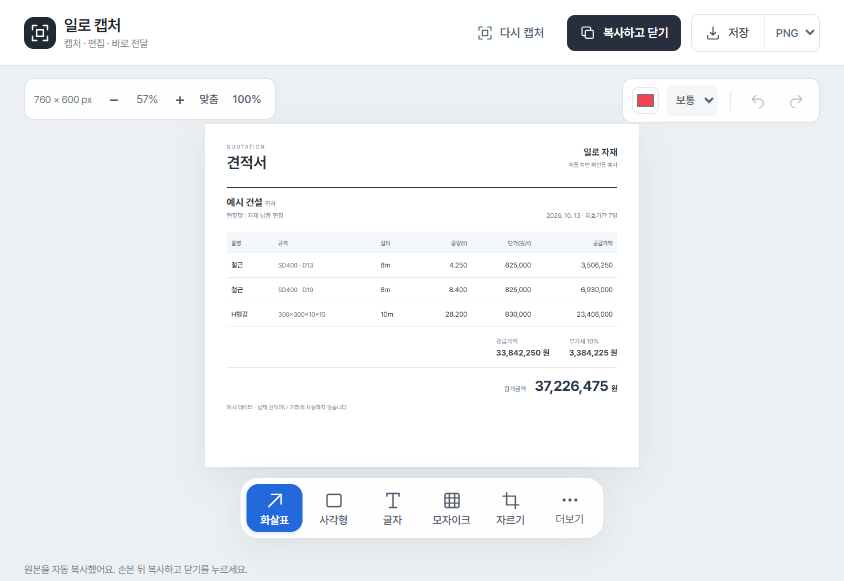
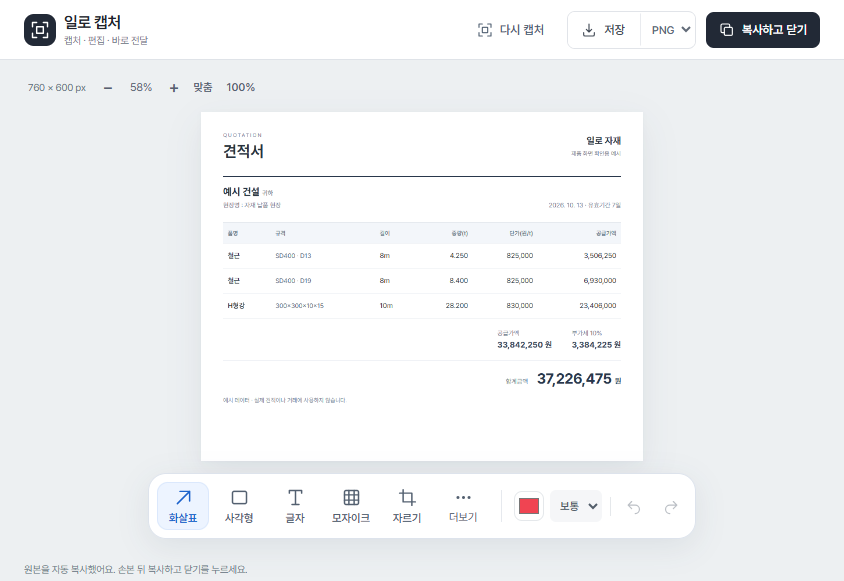
Publish ILLO 0.23.29 download page

diff --git a/index.html b/index.html
@@ -1,1 +1,1 @@
-<!doctype html><html lang="ko"><head><meta charset="utf-8"><meta name="viewport" content="width=device-width,initial-scale=1"><meta name="description" content="일로에서 견적을 만들고, 캡처하고, 전달하세요. Windows용 일로 다운로드."><meta name="theme-color" content="#ffffff"><title>일로 — 업무를 한곳에서</title><link rel="icon" href="illo.png"><link rel="stylesheet" href="site.css"></head><body><header><a class="brand" href="./"><img src="illo.png" alt="">일로</a><a href="#start">설치 안내</a></header><main><section class="hero"><p class="eyebrow">견적부터 전달까지</p><h1>일을 더 가볍게.<br>일로.</h1><p class="intro">자료를 견적으로, 화면을 메시지로.<br>자주 하는 일을 한곳에서 이어가세요.</p><a class="download" href="https://github.com/ldy0929-hash/illo-downloads/releases/latest/download/ILLO-Setup.exe">Windows용 일로 설치 <span aria-hidden="true">↓</span></a><p class="caption">Windows 10 · 11 / 64비트 · <span data-version>v0.23.28</span></p></section><section class="feature"><div><p class="eyebrow">일로 견적</p><h2>사진·엑셀을 읽고,<br>견적 초안을 만들어요.</h2><p>규격과 수량을 확인하고 단가를 넣으면<br>견적서·거래명세서·발주서로 이어져요.</p><p class="note">AI 초안은 원문과 대조한 뒤 적용하세요.</p></div><div class="quote-card" aria-label="견적 예시"><div class="quote-title">견적서 <span>예시 자재</span></div><p>수신 &nbsp; 예시 건설 귀하</p><p>현장명 : 신축 현장</p><div class="quote-line"><strong>철근 SD400 D13</strong><span>8 m</span><span>100본</span></div><div class="quote-line"><strong>H형강 300×300</strong><span>10 m</span><span>30본</span></div><div class="quote-actions"><span>전체 이미지 복사</span><span>PDF 저장</span></div></div></section><section class="feature capture"><div class="capture-image"><img src="capture.png" alt="일로 간단 캡처 편집 화면. 캡처 이미지와 아래 화살표·사각형·글자·모자이크 도구."></div><div><p class="eyebrow">일로 캡처</p><h2>누르고, 손보고,<br>붙여넣으세요.</h2><p>작업표시줄에서 바로 캡처.<br>화살표·글자·모자이크로 정리해서<br>메신저에 붙여넣으세요.</p></div></section><section id="start" class="start"><h2>시작은 간단하게.</h2><ol><li><span>1</span><div><strong>일로를 설치하세요.</strong><p>설치파일 하나를 실행하면 됩니다.</p></div></li><li><span>2</span><div><strong>AI 기능을 준비하세요.</strong><p>첫 실행에서 필요한 환경을 자동으로 준비해요.<br>인터넷 연결과 몇 분의 준비 시간이 필요합니다.</p></div></li><li><span>3</span><div><strong>ChatGPT 계정으로 연결하세요.</strong><p>AI를 쓰려면 지원되는 ChatGPT 계정과 구독 사용 동의가 필요해요.<br>사용량은 연결한 계정의 한도에 포함됩니다.</p></div></li></ol><p class="update-note">새 버전은 앱에서 자동 확인해요. 안내가 뜨면 저장 후 업데이트하세요.<br>휴대폰 연결은 PC 일로가 실행 중이고 같은 Wi-Fi 또는 Tailscale로 연결되어 있어야 해요.</p><details><summary>설치 전 참고</summary><p>현재 설치파일은 Windows 게시자 인증서로 서명되지 않았습니다. 배포자와 다운로드 주소를 확인하고 회사 PC에서는 담당자에게 설치 정책을 확인하세요. 앱의 업데이트는 배포자 서명과 파일 검증 후 설치합니다.</p><p>견적·설정·AI 대화는 PC에 보관됩니다. AI를 요청하면 선택한 자료와 필요한 업무 내용을 ChatGPT로 전송합니다. 이 다운로드에는 제작자의 업무 자료나 로그인 정보가 들어 있지 않습니다.</p></details></section></main><footer><a class="brand" href="./"><img src="illo.png" alt="">일로</a><a href="https://github.com/ldy0929-hash/illo-downloads/releases">버전 기록</a></footer></body></html>
+<!doctype html><html lang="ko"><head><meta charset="utf-8"><meta name="viewport" content="width=device-width,initial-scale=1"><meta name="description" content="일로에서 견적을 만들고, 캡처하고, 전달하세요. Windows용 일로 다운로드."><meta name="theme-color" content="#ffffff"><title>일로 — 업무를 한곳에서</title><link rel="icon" href="illo.png"><link rel="stylesheet" href="site.css"></head><body><header><a class="brand" href="./"><img src="illo.png" alt="">일로</a><a href="#start">설치 안내</a></header><main><section class="hero"><p class="eyebrow">견적부터 전달까지</p><h1>일을 더 가볍게.<br>일로.</h1><p class="intro">자료를 견적으로, 화면을 메시지로.<br>자주 하는 일을 한곳에서 이어가세요.</p><a class="download" href="https://github.com/ldy0929-hash/illo-downloads/releases/latest/download/ILLO-Setup.exe">Windows용 일로 설치 <span aria-hidden="true">↓</span></a><p class="caption">Windows 10 · 11 / 64비트 · <span data-version>v0.23.29</span></p></section><section class="feature"><div><p class="eyebrow">일로 견적</p><h2>사진·엑셀을 읽고,<br>견적 초안을 만들어요.</h2><p>규격과 수량을 확인하고 단가를 넣으면<br>견적서·거래명세서·발주서로 이어져요.</p><p class="note">AI 초안은 원문과 대조한 뒤 적용하세요.</p></div><div class="quote-card" aria-label="견적 예시"><div class="quote-title">견적서 <span>예시 자재</span></div><p>수신 &nbsp; 예시 건설 귀하</p><p>현장명 : 신축 현장</p><div class="quote-line"><strong>철근 SD400 D13</strong><span>8 m</span><span>100본</span></div><div class="quote-line"><strong>H형강 300×300</strong><span>10 m</span><span>30본</span></div><div class="quote-actions"><span>전체 이미지 복사</span><span>PDF 저장</span></div></div></section><section class="feature capture"><div class="capture-image"><img src="capture.png" alt="일로 간단 캡처 편집 화면. 캡처 이미지와 아래 화살표·사각형·글자·모자이크 도구."></div><div><p class="eyebrow">일로 캡처</p><h2>누르고, 손보고,<br>붙여넣으세요.</h2><p>작업표시줄에서 바로 캡처.<br>화살표·글자·모자이크로 정리해서<br>메신저에 붙여넣으세요.</p></div></section><section id="start" class="start"><h2>시작은 간단하게.</h2><ol><li><span>1</span><div><strong>일로를 설치하세요.</strong><p>설치파일 하나를 실행하면 됩니다.</p></div></li><li><span>2</span><div><strong>AI 기능을 준비하세요.</strong><p>첫 실행에서 필요한 환경을 자동으로 준비해요.<br>인터넷 연결과 몇 분의 준비 시간이 필요합니다.</p></div></li><li><span>3</span><div><strong>ChatGPT 계정으로 연결하세요.</strong><p>AI를 쓰려면 지원되는 ChatGPT 계정과 구독 사용 동의가 필요해요.<br>사용량은 연결한 계정의 한도에 포함됩니다.</p></div></li></ol><p class="update-note">새 버전은 앱에서 자동 확인해요. 안내가 뜨면 저장 후 업데이트하세요.<br>휴대폰 연결은 PC 일로가 실행 중이고 같은 Wi-Fi 또는 Tailscale로 연결되어 있어야 해요.</p><details><summary>설치 전 참고</summary><p>현재 설치파일은 Windows 게시자 인증서로 서명되지 않았습니다. 배포자와 다운로드 주소를 확인하고 회사 PC에서는 담당자에게 설치 정책을 확인하세요. 앱의 업데이트는 배포자 서명과 파일 검증 후 설치합니다.</p><p>견적·설정·AI 대화는 PC에 보관됩니다. AI를 요청하면 선택한 자료와 필요한 업무 내용을 ChatGPT로 전송합니다. 이 다운로드에는 제작자의 업무 자료나 로그인 정보가 들어 있지 않습니다.</p></details></section></main><footer><a class="brand" href="./"><img src="illo.png" alt="">일로</a><a href="https://github.com/ldy0929-hash/illo-downloads/releases">버전 기록</a></footer></body></html>
